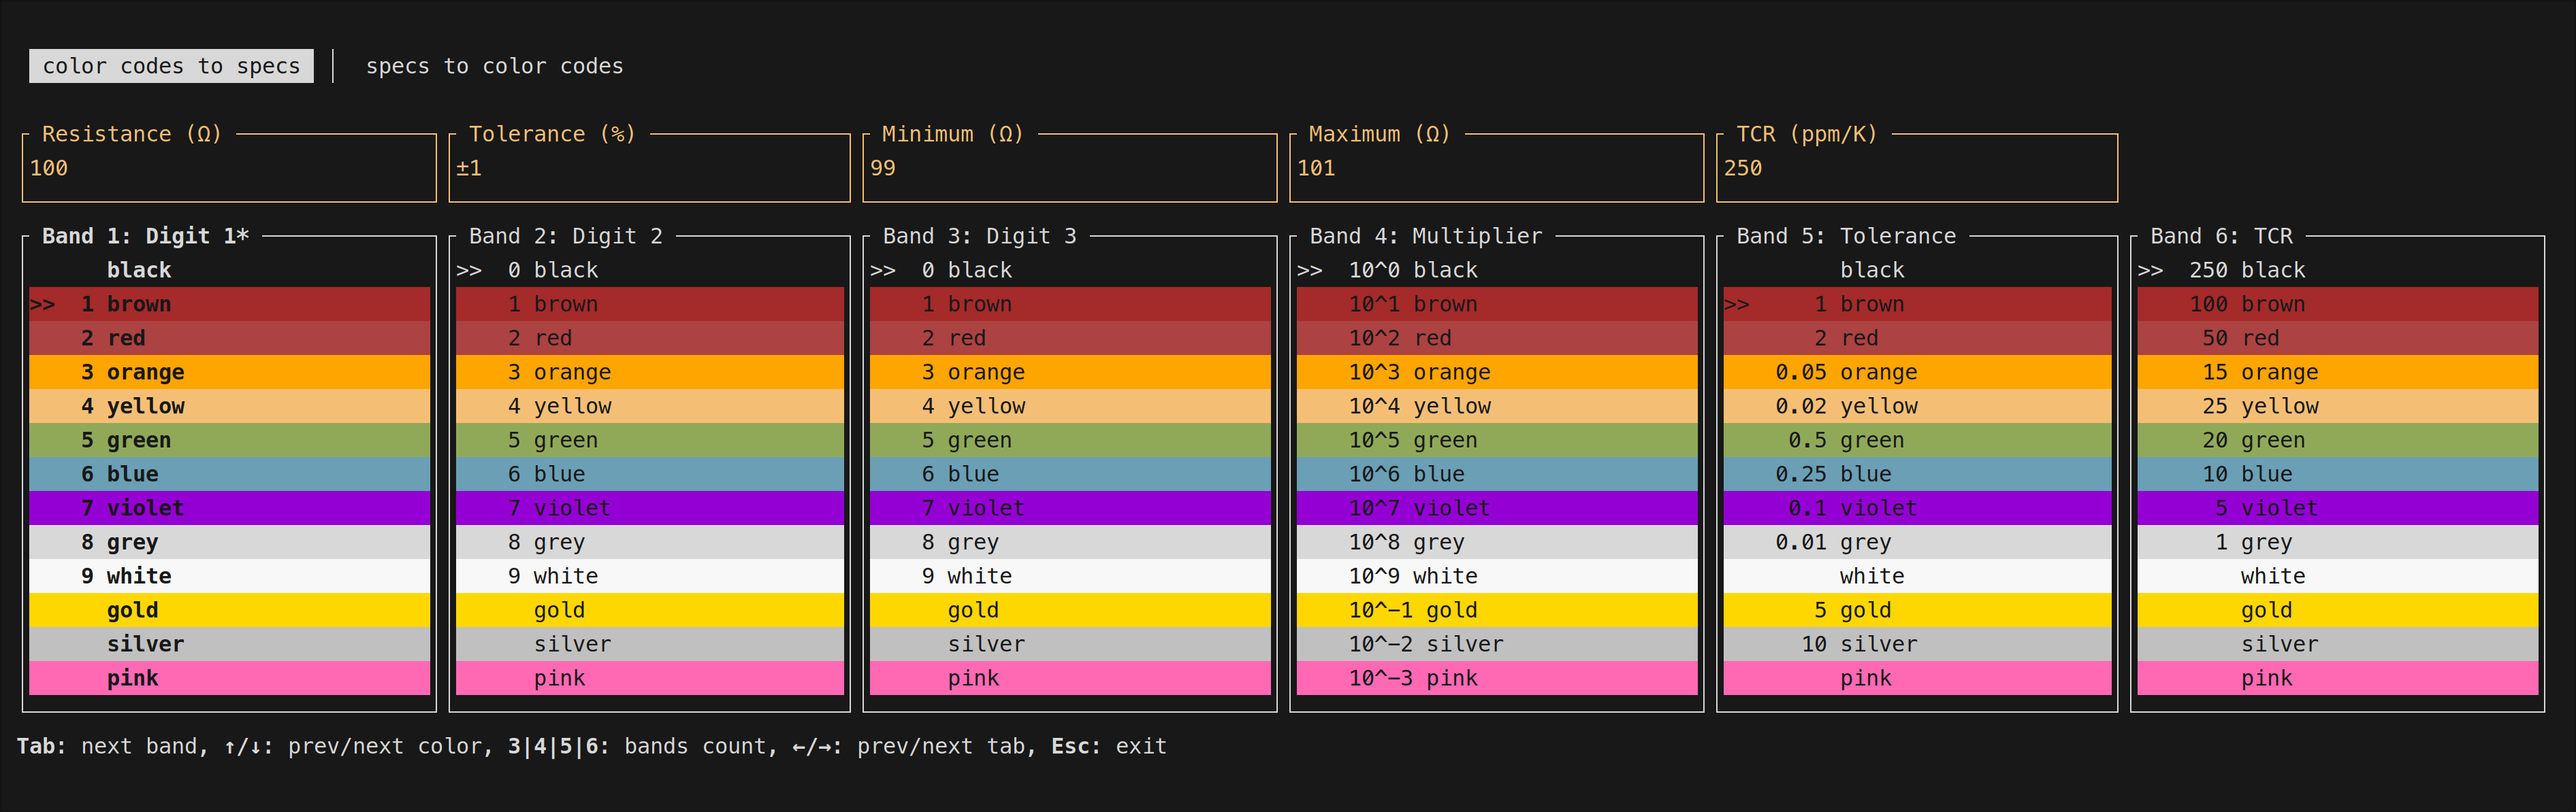
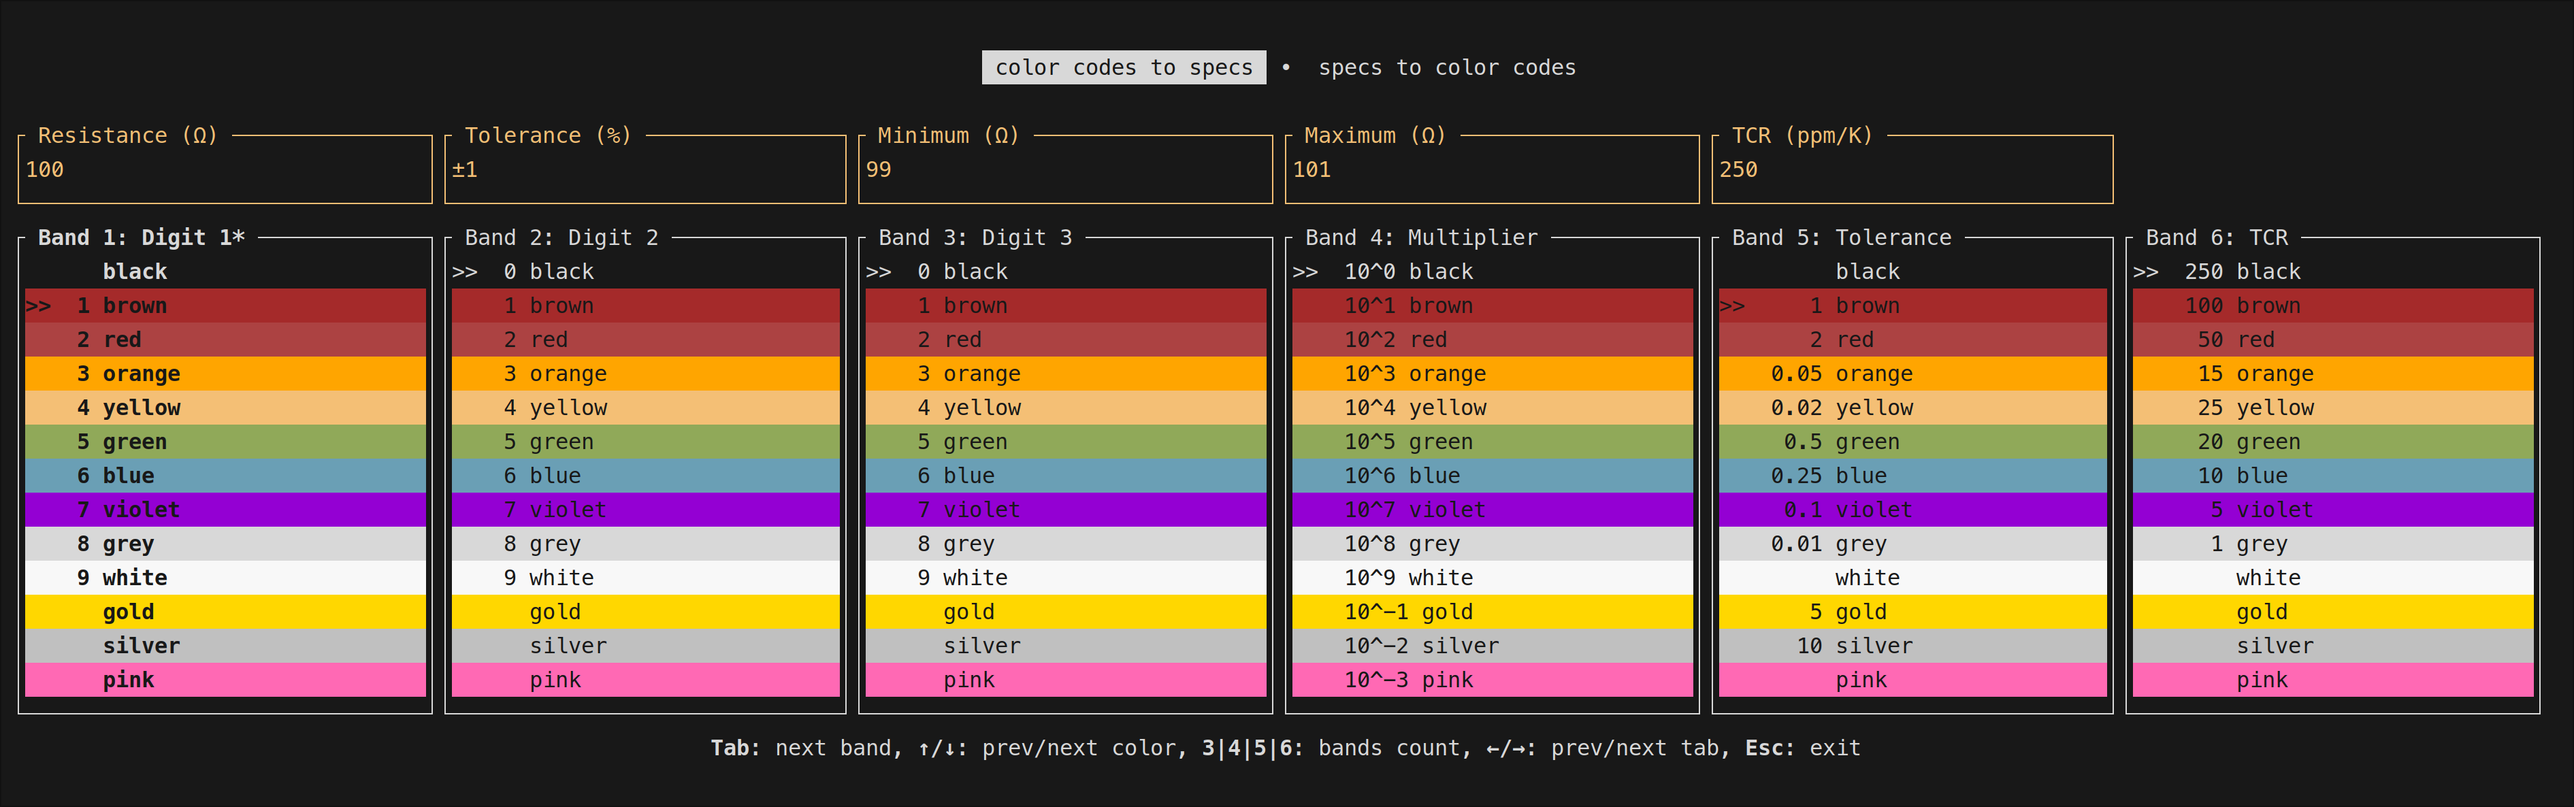
center tabs and help message

diff --git a/src/app.rs b/src/app.rs
@@ -1,8 +1,9 @@
 use color_eyre::Result;
 use crossterm::event::{self, Event, KeyCode, KeyEvent, KeyEventKind};
 use ratatui::{
-    layout::{Constraint, Direction, Layout},
+    layout::{Constraint, Direction, Flex, Layout, Rect},
     style::{Color, Modifier, Style},
+    symbols,
     text::{Line, Span, Text},
     widgets::{
         Bar, BarChart, BarGroup, Block, Borders, List, ListDirection, ListItem, ListState,
@@ -119,6 +120,7 @@ impl Default for Model {
 fn tabs<'a>(selected: &SelectedTab) -> Tabs<'a> {
     Tabs::new(vec![" color codes to specs ", " specs to color codes "])
         .padding(" ", " ")
+        .divider(symbols::DOT)
         .select(selected)
 }
 
@@ -208,6 +210,15 @@ fn band_list<'a>(band_idx: usize, bands: usize, is_focused: bool) -> List<'a> {
 }
 
 pub fn view(model: &Model, frame: &mut Frame) {
+    fn center_horizontal(area: Rect, width: u16) -> Rect {
+        let [area] = Layout::horizontal([Constraint::Length(width)])
+            .flex(Flex::Center)
+            .areas(area);
+        area
+    }
+
+    let tabs_width = 49;
+
     match model.selected_tab {
         SelectedTab::ColorCodesToSpecs => {
             let chunks = Layout::default()
@@ -223,8 +234,8 @@ pub fn view(model: &Model, frame: &mut Frame) {
                     .as_ref(),
                 )
                 .split(frame.area());
-            let tabs_rect = chunks[0];
-            let help_msg_rect = chunks[3];
+            let tabs_rect = center_horizontal(chunks[0], tabs_width);
+            let help_msg_rect = center_horizontal(chunks[3], 89);
 
             let spec_chuncks = Layout::default()
                 .direction(Direction::Horizontal)
@@ -360,8 +371,8 @@ pub fn view(model: &Model, frame: &mut Frame) {
                 ])
                 .split(chunks[2]);
 
-            let tabs_rect = chunks[0];
-            let help_msg_rect = chunks[3];
+            let tabs_rect = center_horizontal(chunks[0], tabs_width);
+            let help_msg_rect = center_horizontal(chunks[3], 76);
             let resistance_rect = input_rects[0];
             let tolerance_rect = input_rects[1];
             let tcr_rect = input_rects[2];
